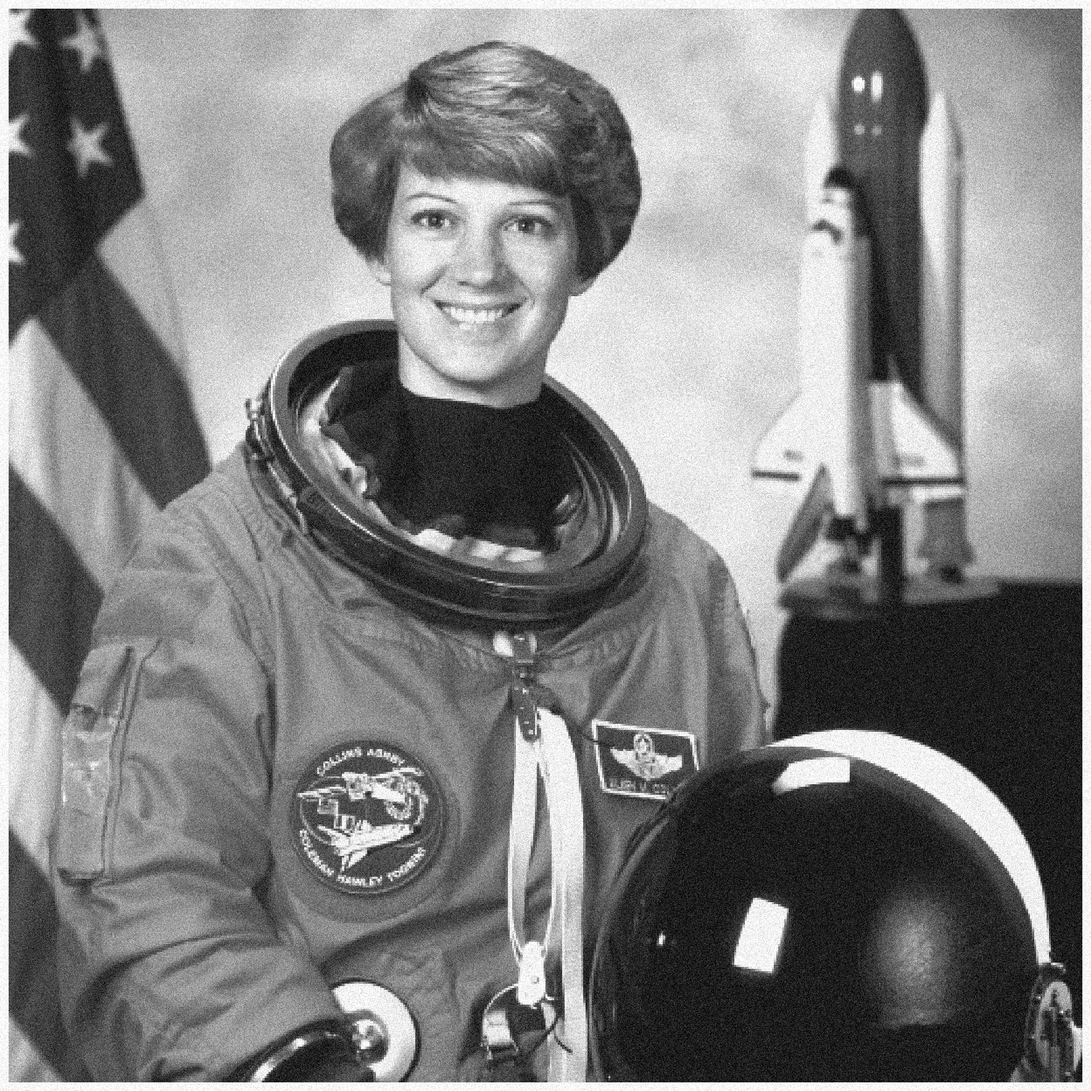
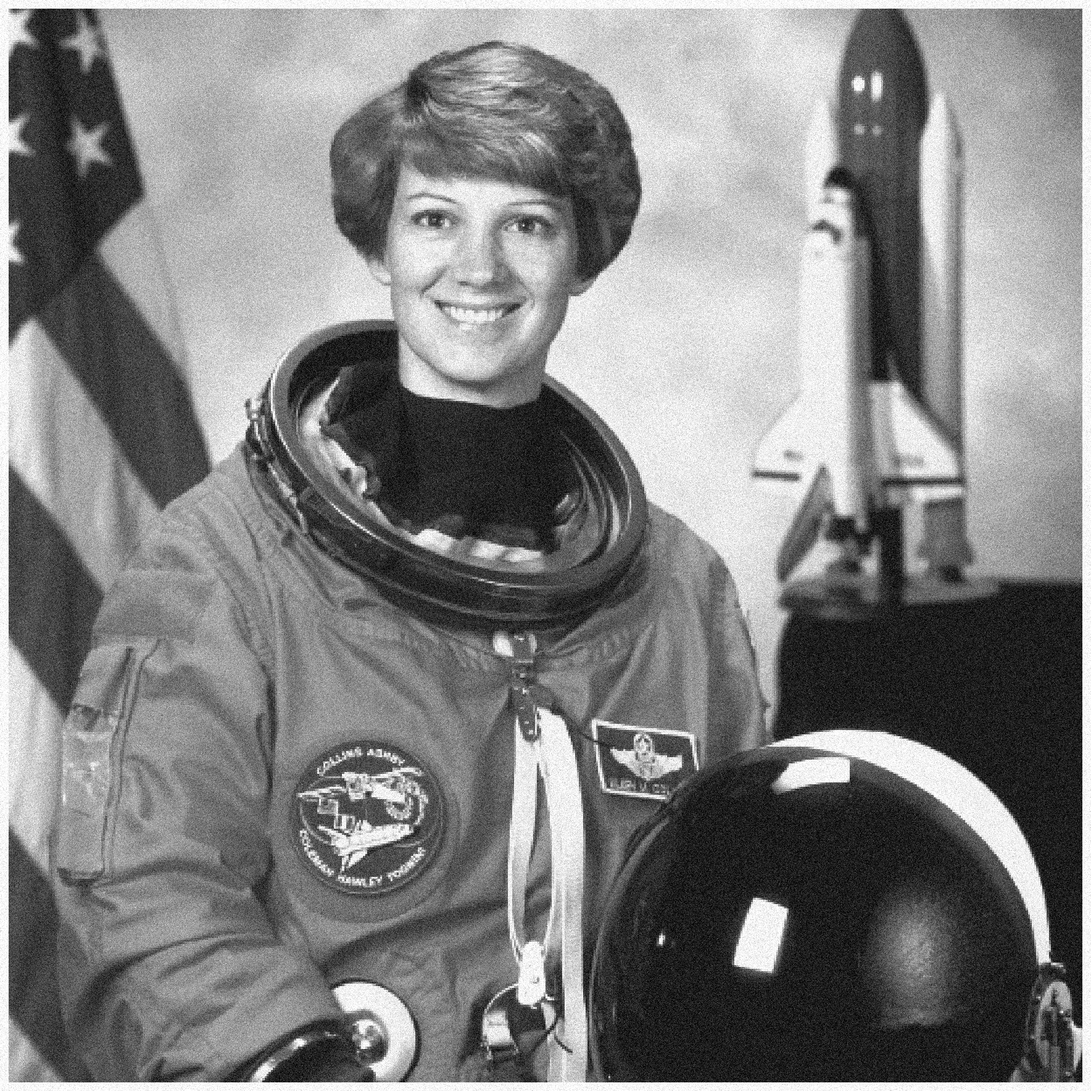
salt and pepper noise added

diff --git a/main.py b/main.py
@@ -158,3 +158,35 @@ def add_gaussian_noise(img_u8: np.ndarray, sigma: float = 20.0, mu: float = 0.0)
 gauss_noisy = add_gaussian_noise(clean, sigma=20.0)
 imshow_gray(gauss_noisy, "Gaussian noisy image (sigma=20)")
 save_gray(gauss_noisy, "outputs/L_gaussian_noise.png")
+
+# 2.1.2 (Salt and Pepper)
+
+def add_salt_pepper_noise(img_u8: np.ndarray, amount: float = 0.05) -> np.ndarray:
+
+    assert img_u8.dtype == np.uint8
+    out = img_u8.copy()
+
+    # total pixel
+    num_pixels = out.size
+    num_noisy = int(num_pixels * amount)
+
+    # 1D index
+    flat = out.flatten()
+
+    # choose indexes for noise
+    idx = np.random.choice(num_pixels, size=num_noisy, replace=False)
+
+    # half of them are 0, half of them are 255
+    half = num_noisy // 2
+    flat[idx[:half]] = 0
+    flat[idx[half:]] = 255
+
+    # reshape to reach previos image
+    out = flat.reshape(out.shape)
+    return out
+
+sp_noisy = add_salt_pepper_noise(clean, amount=0.05)  # %5 pixel
+imshow_gray(sp_noisy, "Salt & Pepper noisy image (5%)")
+save_gray(sp_noisy, "outputs/L_saltpepper_noise.png")
+
+
